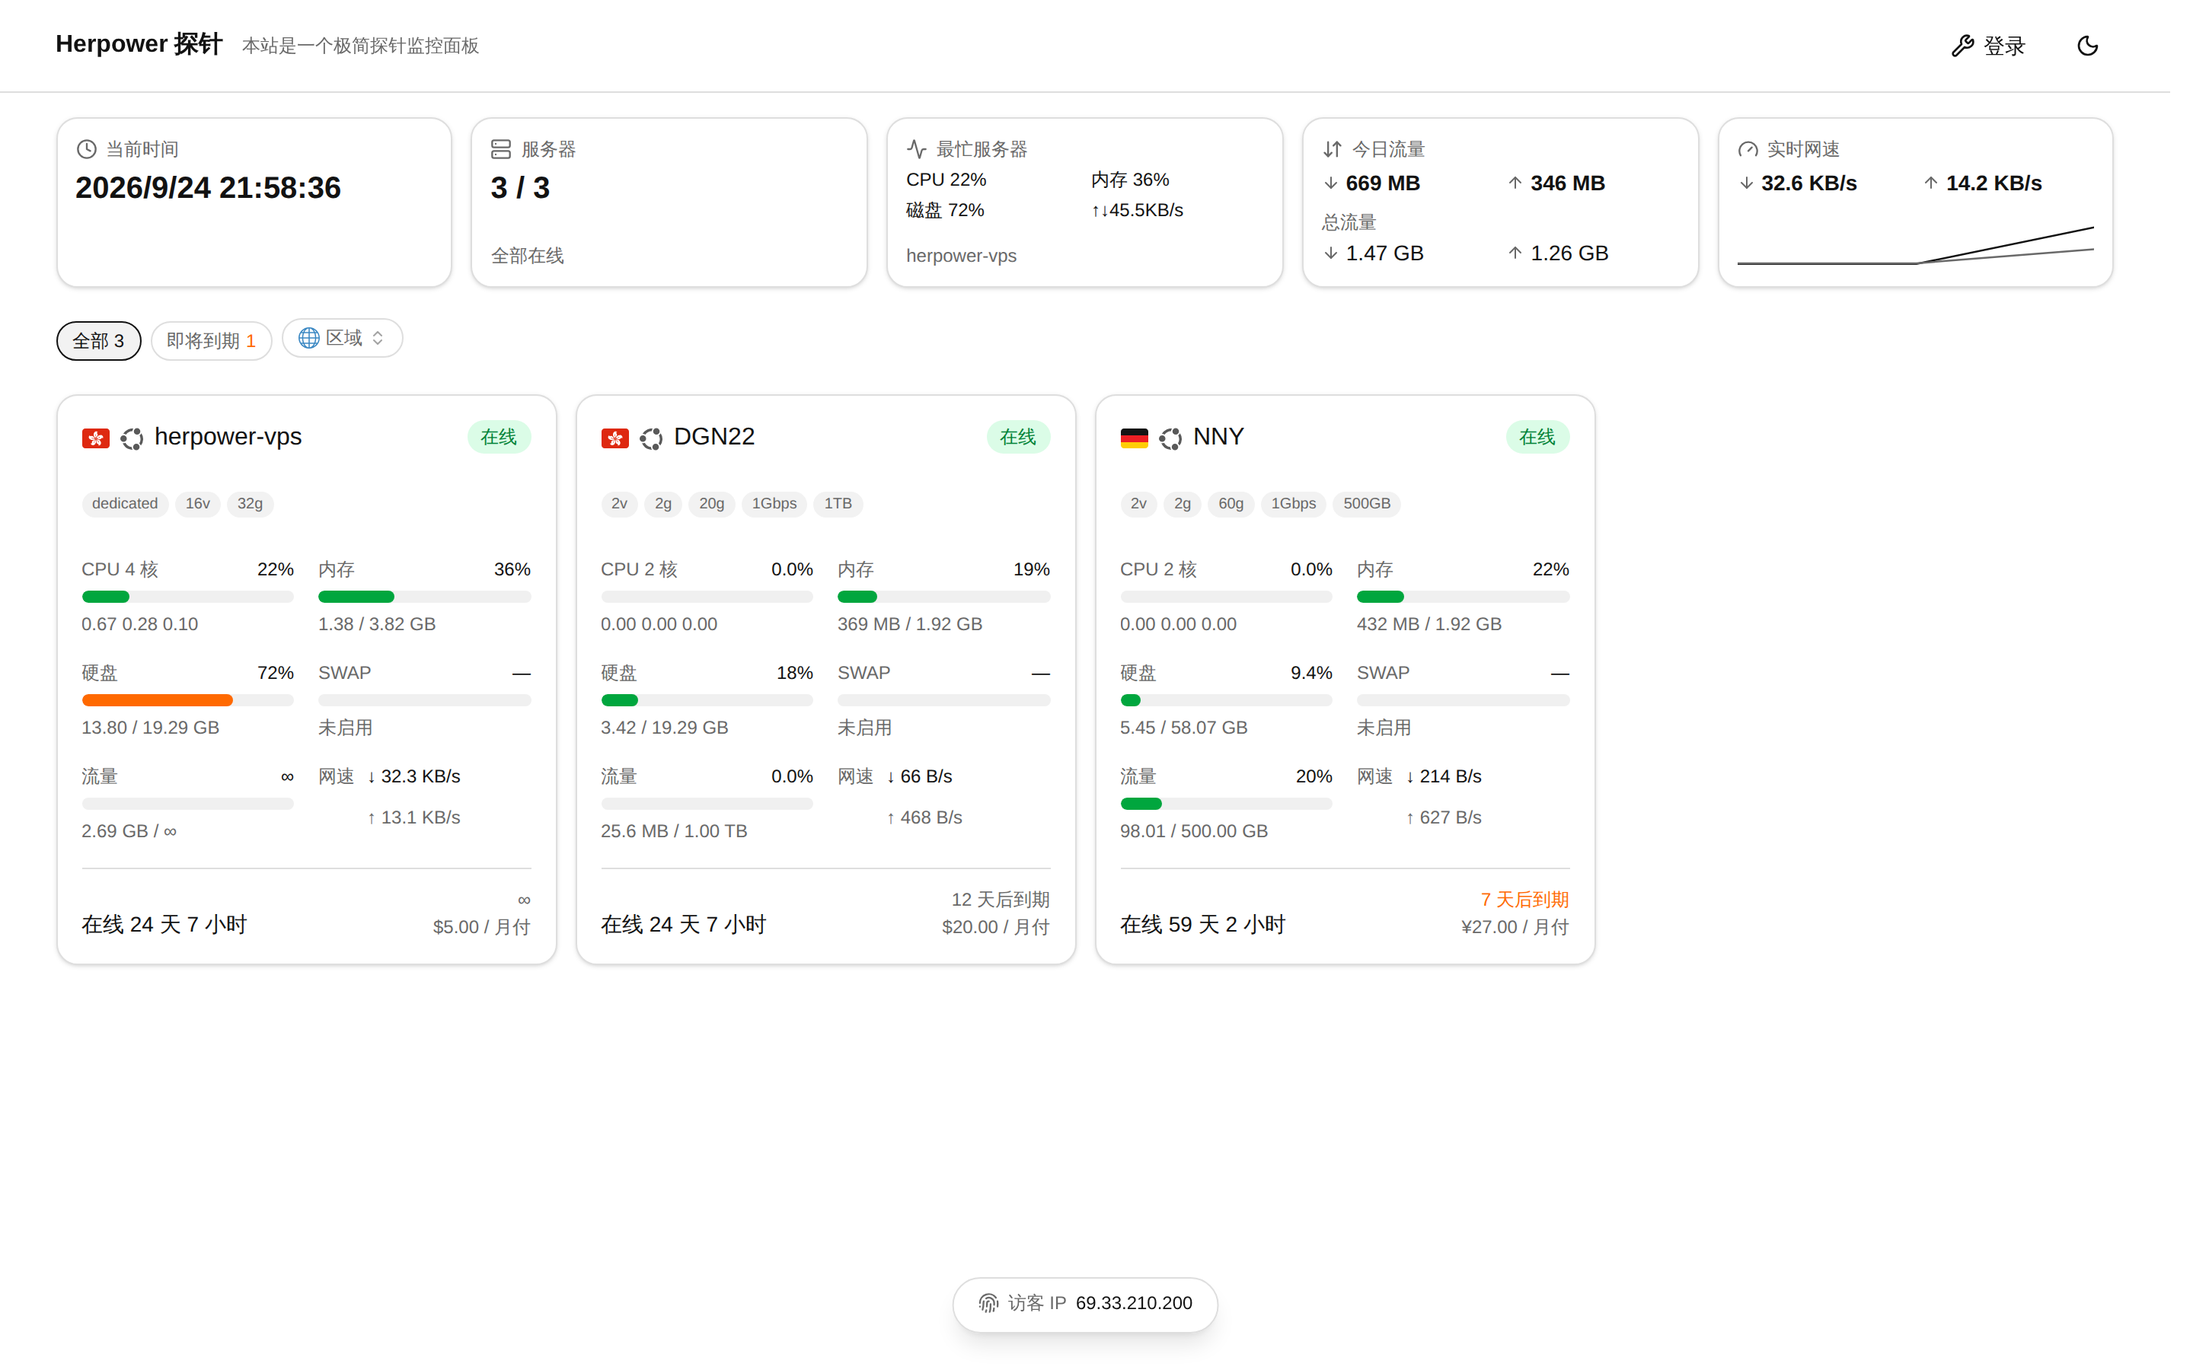
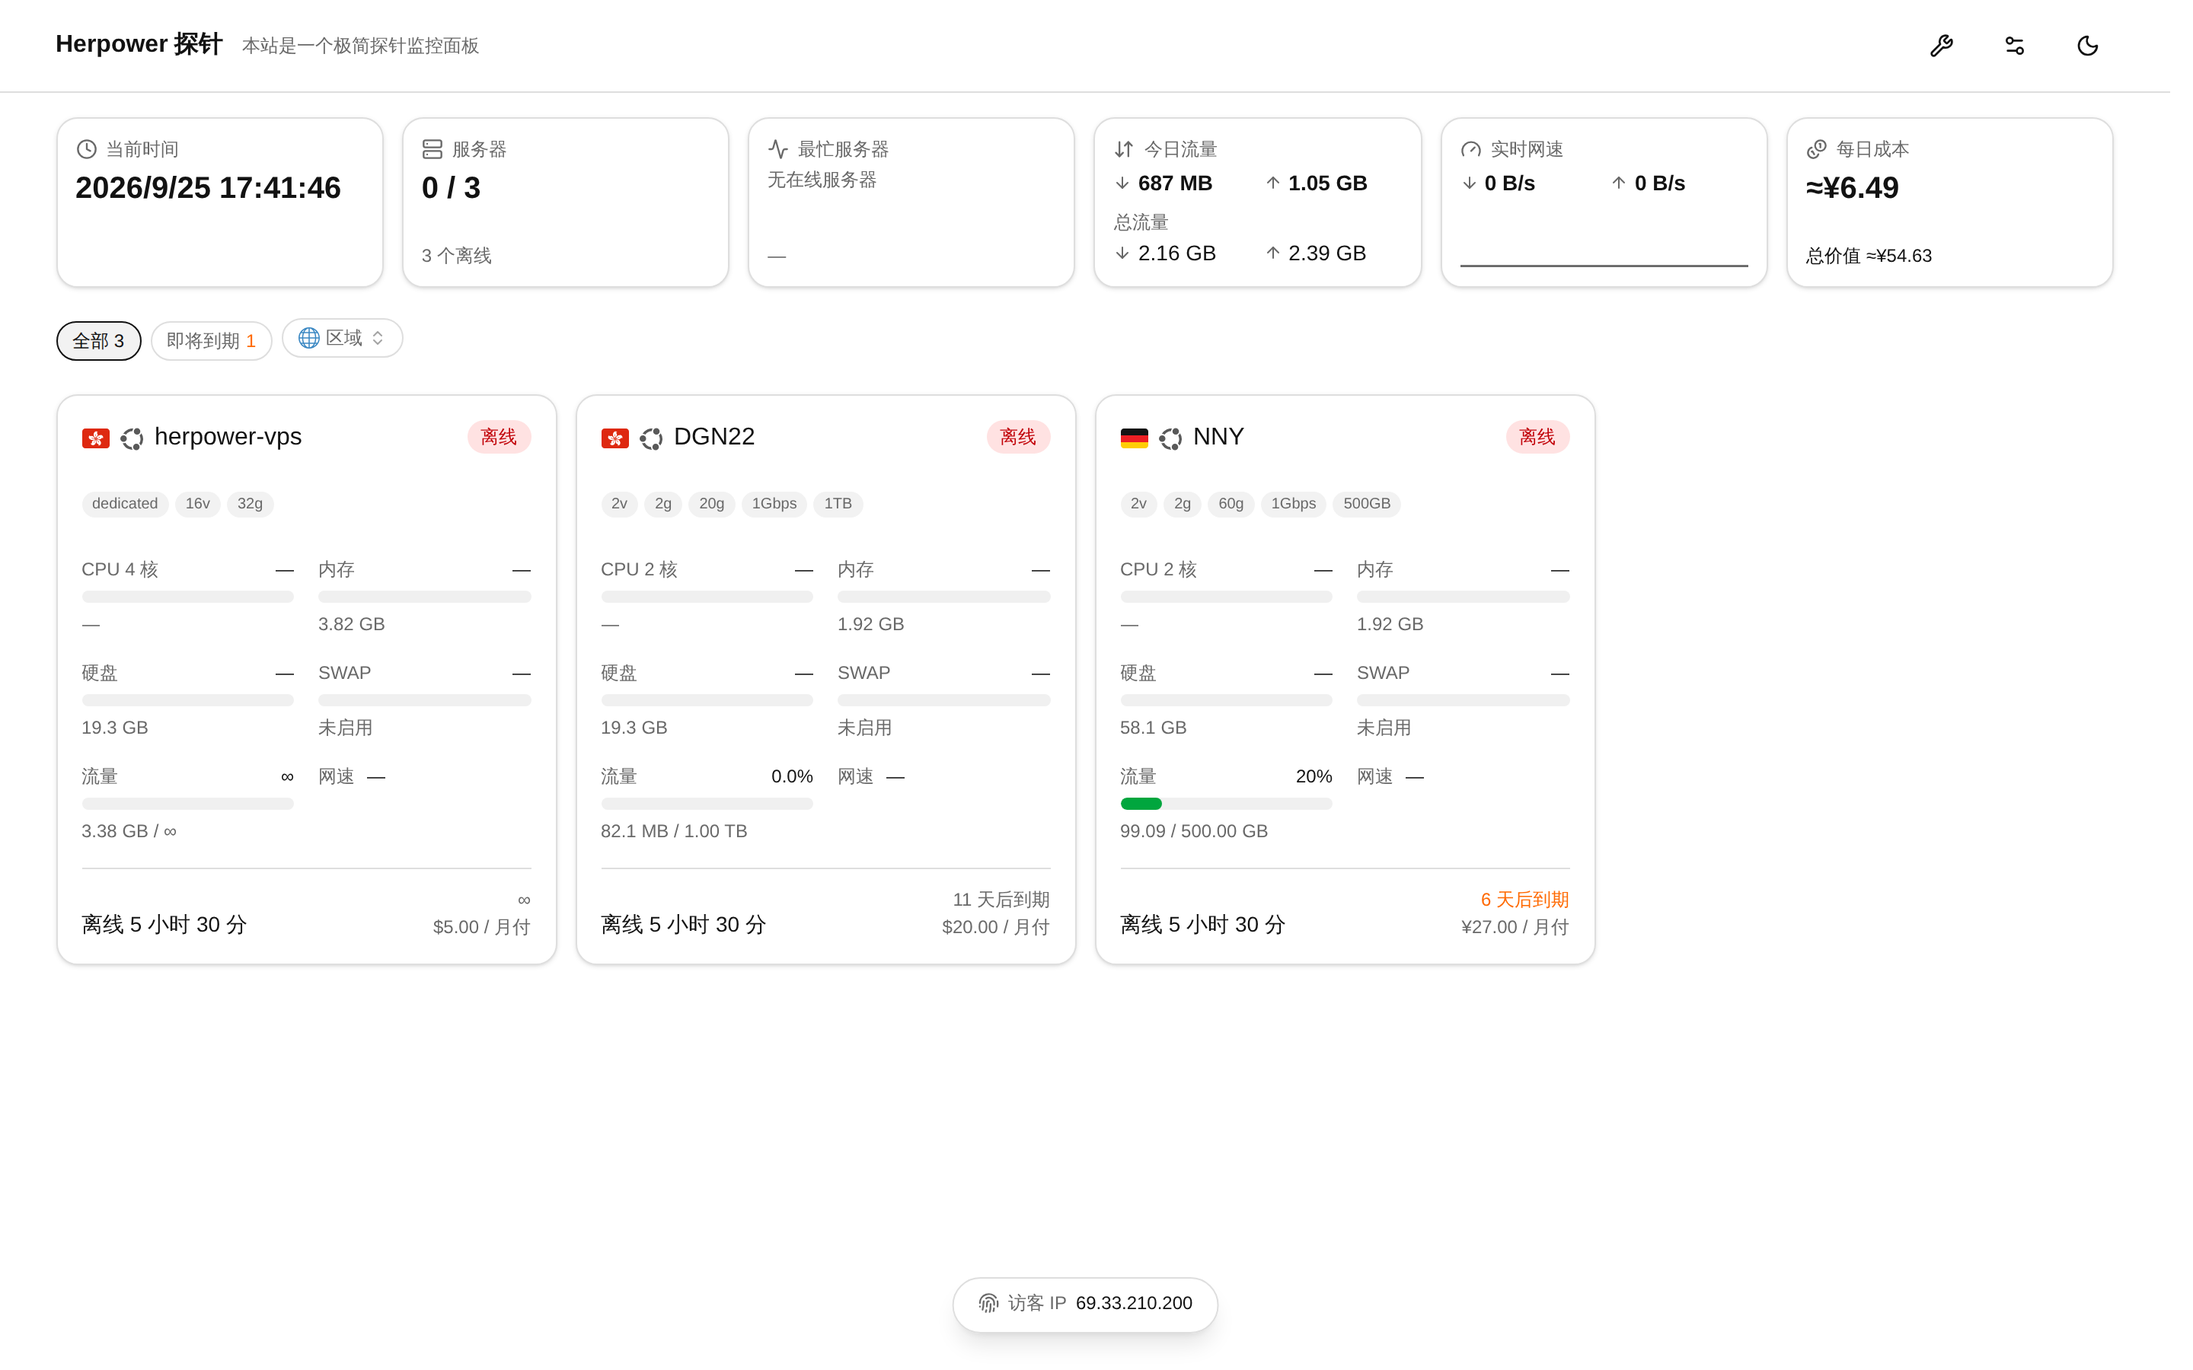
feat: komari-likely v1.2.1 — 背景图磨砂玻璃化，卡片浓度滑钮（默认 70，暗色 -10）

diff --git a/themes/komari-likely/src/components/NodeDetail.tsx b/themes/komari-likely/src/components/NodeDetail.tsx
@@ -102,7 +102,7 @@ function Tab({ active, onClick, children }: { active: boolean; onClick: () => vo
   return (
     <button
       onClick={onClick}
-      className={`rounded-md px-2.5 py-1 text-xs transition-colors ${
+      className={`frost-chip rounded-md px-2.5 py-1 text-xs transition-colors ${
         active ? "bg-primary text-primary-foreground" : "text-muted-foreground hover:bg-muted"
       }`}
     >
@@ -333,63 +333,70 @@ export function NodeDetail({ node }: { node: Node }) {
 
   return (
     <div className="space-y-4">
-      <div className="flex items-center gap-2">
-        <Flag country={node.country} />
-        <h2 className="truncate text-lg font-medium">{node.name}</h2>
-        <Status node={node} />
-        <Uptime node={node} />
-      </div>
+      {/* The machine's whole spec sheet in one card. It started flat, which a
+          bare page carries fine -- but a background picture put these thirteen
+          facts straight onto the image, and a surface is the only honest fix.
+          It also reads the machine at a glance: who it is, what it runs, what
+          it costs, before the charts below say how it is doing. */}
+      <Card className="gap-4 p-4">
+        <div className="flex items-center gap-2">
+          <Flag country={node.country} />
+          <h2 className="truncate text-lg font-medium">{node.name}</h2>
+          <Status node={node} />
+          <Uptime node={node} />
+        </div>
 
-      {/* The operator's semicolon badges, one row under the name -- the same
-          blocks the card carries. Public by design, unlike the note below,
-          which only a signed-in panel ever receives. */}
-      <Tags node={node} className="" />
+        {/* The operator's semicolon badges, one row under the name -- the same
+            blocks the card carries. Public by design, unlike the note below,
+            which only a signed-in panel ever receives. */}
+        <Tags node={node} className="" />
 
-      {/* One flat row of facts: what is left after the traffic figures moved
-          out is one machine's spec sheet, and a box around a single topic is
-          just a box. Three across at lg, two at md, one on a phone -- a kernel
-          version or a CPU model needs about 270px to stay whole. */}
-      <dl className="grid gap-x-6 gap-y-3 md:grid-cols-2 lg:grid-cols-3">
-        <Fact label="系统" value={[osName(node.os), node.kernel].filter(Boolean).join(" · ")} />
-        <Fact
-          label="架构"
-          value={[node.arch, node.virt !== "none" ? node.virt : "", m ? `${m.procs} 进程` : ""]
-            .filter(Boolean)
-            .join(" · ")}
-        />
-        <Fact
-          label="CPU"
-          value={node.cpu_name ? `${cpuName(node.cpu_name)} × ${node.cpu_cores}` : `${node.cpu_cores} 核`}
-        />
-        {/* The agent reports nothing here yet; the slot stays so every
-            machine's sheet reads the same, ready for the day it does. */}
-        <Fact label="GPU" value="未上报" />
-        <Fact label="RAM" value={bytes(node.mem_total)} />
-        {/* A machine without swap is stating a fact about itself, worth the row. */}
-        <Fact
-          label="SWAP"
-          value={node.swap_total > 0
-            ? m
-              ? pair(m.swap_used, node.swap_total)
-              : bytes(node.swap_total)
-            : "未启用"}
-        />
-        <Fact label="硬盘" value={bytes(node.disk_total)} />
-        <Fact label="今日流量" value={`↓ ${bytes(node.day_rx)} · ↑ ${bytes(node.day_tx)}`} />
-        <Fact label="总流量" value={`↓ ${bytes(node.total_rx)} · ↑ ${bytes(node.total_tx)}`} />
-        <Fact
-          label="价格"
-          value={node.price > 0
-            ? `${money(node.price, node.currency)} / ${CYCLES[node.billing_cycle] ?? node.billing_cycle}`
-            : "免费"}
-        />
-        <Fact label="剩余价值" value={remainingValue(node, fx.rate)} title={fxNote} />
-        <Fact label="到期时间" value={node.expires_at ?? FOREVER} />
-      </dl>
+        {/* One flat row of facts: what is left after the traffic figures moved
+            out is one machine's spec sheet. Three across at lg, two at md, one
+            on a phone -- a kernel version or a CPU model needs about 270px to
+            stay whole. */}
+        <dl className="grid gap-x-6 gap-y-3 md:grid-cols-2 lg:grid-cols-3">
+          <Fact label="系统" value={[osName(node.os), node.kernel].filter(Boolean).join(" · ")} />
+          <Fact
+            label="架构"
+            value={[node.arch, node.virt !== "none" ? node.virt : "", m ? `${m.procs} 进程` : ""]
+              .filter(Boolean)
+              .join(" · ")}
+          />
+          <Fact
+            label="CPU"
+            value={node.cpu_name ? `${cpuName(node.cpu_name)} × ${node.cpu_cores}` : `${node.cpu_cores} 核`}
+          />
+          {/* The agent reports nothing here yet; the slot stays so every
+              machine's sheet reads the same, ready for the day it does. */}
+          <Fact label="GPU" value="未上报" />
+          <Fact label="RAM" value={bytes(node.mem_total)} />
+          {/* A machine without swap is stating a fact about itself, worth the row. */}
+          <Fact
+            label="SWAP"
+            value={node.swap_total > 0
+              ? m
+                ? pair(m.swap_used, node.swap_total)
+                : bytes(node.swap_total)
+              : "未启用"}
+          />
+          <Fact label="硬盘" value={bytes(node.disk_total)} />
+          <Fact label="今日流量" value={`↓ ${bytes(node.day_rx)} · ↑ ${bytes(node.day_tx)}`} />
+          <Fact label="总流量" value={`↓ ${bytes(node.total_rx)} · ↑ ${bytes(node.total_tx)}`} />
+          <Fact
+            label="价格"
+            value={node.price > 0
+              ? `${money(node.price, node.currency)} / ${CYCLES[node.billing_cycle] ?? node.billing_cycle}`
+              : "免费"}
+          />
+          <Fact label="剩余价值" value={remainingValue(node, fx.rate)} title={fxNote} />
+          <Fact label="到期时间" value={node.expires_at ?? FOREVER} />
+        </dl>
 
-      {node.remark && (
-        <p className="rounded-md bg-muted px-3 py-2 text-sm whitespace-pre-wrap">{node.remark}</p>
-      )}
+        {node.remark && (
+          <p className="rounded-md bg-muted px-3 py-2 text-sm whitespace-pre-wrap">{node.remark}</p>
+        )}
+      </Card>
 
       <div className="space-y-2 border-t pt-4">
         <div className="flex gap-1">

diff --git a/themes/komari-likely/src/components/ThemeSettings.tsx b/themes/komari-likely/src/components/ThemeSettings.tsx
@@ -141,7 +141,7 @@ export function ThemeSettingsButton({ settings, onSave }: {
         <>
           {/* Click anywhere else closes; the panel sits above this blanket. */}
           <div className="fixed inset-0 z-20" onClick={() => setOpen(false)} aria-hidden />
-          <div className="absolute right-0 top-full z-30 mt-2 max-h-[80svh] w-80 space-y-3 overflow-auto rounded-lg border bg-popover p-3 text-popover-foreground shadow-lg">
+          <div className="absolute right-0 top-full z-30 mt-2 max-h-[80svh] w-80 space-y-3 overflow-auto rounded-lg border bg-popover p-3 text-popover-foreground shadow-lg backdrop-blur-[64px]">
             <div>
               <p className="text-xs font-medium">主题设置</p>
               <p className="mt-1 text-[10px] leading-relaxed text-muted-foreground">
@@ -200,6 +200,17 @@ export function ThemeSettingsButton({ settings, onSave }: {
                       ))}
                     </div>
                   </div>
+                  {/* The frost half of the picture treatment: how solid the
+                      cards are over the blurred image. The image's own
+                      opacity above is a different knob and the two compose. */}
+                  <Slider
+                    label="卡片浓度"
+                    value={Math.round(bg.cardOpacity)}
+                    min={40}
+                    max={100}
+                    render={(v) => `${v}%`}
+                    onPick={(v) => save({ card_opacity: String(v) })}
+                  />
                 </div>
               </div>
             </Section>
@@ -244,6 +255,7 @@ export function ThemeSettingsButton({ settings, onSave }: {
               onClick={() =>
                 save({
                   bg_enabled: "off", bg_desktop: "", bg_mobile: "", bg_opacity: "100", bg_blur: "0", bg_fit: "cover",
+                  card_opacity: "70",
                   cost_public: "off", show_busiest: "on", show_swap: "on", show_speed: "on", show_billing: "on",
                   ip_capsule: "on", expiring_group: "on", region_group: "on",
                 })

diff --git a/themes/komari-likely/src/index.css b/themes/komari-likely/src/index.css
@@ -72,6 +72,29 @@
   --warn: oklch(0.79 0 0);
 }
 
+/* A background picture turns a solid panel into something pasted on top of
+   it. The komari treatment is the opposite trade: the picture stays at full
+   strength and the panels frost -- a translucent tint over a heavy backdrop
+   blur, so text reads against a smeared field instead of the picture's own
+   detail. The switch is one class on the root element, present only while a
+   picture is actually painted: without one the variables are the solid
+   originals and the blur beneath an opaque panel shows nothing, so the bare
+   page is pixel-for-pixel what it always was.
+
+   How solid the frost is comes from `--card-opacity`, set by the page from
+   the operator's slider (40-100, default 70). Dark mode runs ten points
+   thinner -- the same number over the dark tint reads heavier than it does
+   over white -- and the popovers ten points denser, their smaller type
+   needing the sturdier ground. */
+.bg-on {
+  --card: oklch(1 0 0 / var(--card-opacity, 70%));
+  --popover: oklch(1 0 0 / min(95%, calc(var(--card-opacity, 70%) + 10%)));
+}
+.dark.bg-on {
+  --card: oklch(0.2 0 0 / max(40%, calc(var(--card-opacity, 70%) - 10%)));
+  --popover: oklch(0.2 0 0 / var(--card-opacity, 70%));
+}
+
 @theme inline {
   --radius-sm: calc(var(--radius) - 4px);
   --radius-md: calc(var(--radius) - 2px);
@@ -114,3 +137,15 @@
 
 /* Tabular figures keep live numbers from shifting as they update. */
 .tnum { font-variant-numeric: tabular-nums; }
+
+/* The chips that rest directly on the page -- an unselected group pill, an
+   unselected range tab -- carry no fill of their own, which the picture
+   behind them makes loud. The blur rides along unconditionally: over the
+   bare page it has nothing to smear and so shows nothing. A selected chip
+   keeps its solid fill, hence the exclusions. */
+.frost-chip {
+  backdrop-filter: blur(24px);
+}
+.bg-on .frost-chip:not(.bg-secondary):not(.bg-primary) {
+  background-color: color-mix(in oklab, var(--card) 60%, transparent);
+}

diff --git a/themes/komari-likely/src/App.tsx b/themes/komari-likely/src/App.tsx
@@ -173,7 +173,7 @@ export default function App() {
   const shown = group ? sorted.filter(inGroup) : sorted
   const count = (name: string) => sorted.filter((n) => (name === EXPIRING ? expiring.some((e) => e.id === n.id) : groups.includes(name) ? n.group === name : n.country === name)).length
   const pill = (active: boolean) =>
-    `inline-flex items-center gap-1 rounded-full border px-2.5 py-1 text-xs transition-colors ${active ? "border-primary bg-secondary font-medium" : "text-muted-foreground hover:bg-muted"}`
+    `frost-chip inline-flex items-center gap-1 rounded-full border px-2.5 py-1 text-xs transition-colors ${active ? "border-primary bg-secondary font-medium" : "text-muted-foreground hover:bg-muted"}`
 
   // `/node/{id}` is a page people bookmark and share, so the tab needs the node's
   // name. The site name rather than a fixed string, since the hub lets an operator
@@ -181,6 +181,18 @@ export default function App() {
   useEffect(() => {
     document.title = [selected?.name, me?.site_name || "Monitor"].filter(Boolean).join(" · ")
   }, [selected?.name, me?.site_name])
+
+  // One class on the root frosts every surface while a background picture is
+  // painted, and changes nothing while one is not; the picture itself is
+  // BackgroundLayer's business. The accompanying variable is how solid the
+  // frost is, as the operator set it -- a number the CSS in index.css turns
+  // into the card and popover alphas. This must run even on the error and
+  // loading shapes below.
+  useEffect(() => {
+    const t = me?.theme
+    document.documentElement.classList.toggle("bg-on", !!t && t.bg_enabled === "on" && !!(t.bg_desktop || t.bg_mobile))
+    document.documentElement.style.setProperty("--card-opacity", `${parseThemeSettings(t).bg.cardOpacity}%`)
+  }, [me?.theme])
 
   // The description the operator wrote is both page copy and the meta a crawler
   // reads; the page keeps its own copy current with whatever /me reported.

diff --git a/themes/komari-likely/src/lib/display.ts b/themes/komari-likely/src/lib/display.ts
@@ -9,6 +9,10 @@ export type Bg = {
   opacity: number
   blur: number
   fit: "cover" | "contain"
+  /** How solid the frosted panels are while the picture is on: 100 is an
+   *  opaque card, and the floor of 40 is where text starts competing with the
+   *  picture for the eye. */
+  cardOpacity: number
 }
 
 export type Display = {
@@ -36,6 +40,7 @@ export function parseThemeSettings(raw?: Record<string, string>): ThemeSettings 
       opacity: Math.min(1, Math.max(0, Number(raw?.bg_opacity ?? 100) / 100 || 1)),
       blur: Math.min(20, Math.max(0, Number(raw?.bg_blur ?? 0) || 0)),
       fit: raw?.bg_fit === "contain" ? "contain" : "cover",
+      cardOpacity: Math.min(100, Math.max(40, Number(raw?.card_opacity ?? 70) || 70)),
     },
     display: {
       costPublic: flag(raw, "cost_public", false),

diff --git a/themes/komari-likely/src/components/RegionPicker.tsx b/themes/komari-likely/src/components/RegionPicker.tsx
@@ -28,7 +28,7 @@ export function RegionPicker({ regions, selected, onSelect, countOf, trigger }: 
         <>
           {/* Click anywhere else closes; the panel sits above this blanket. */}
           <div className="fixed inset-0 z-20" onClick={() => setOpen(false)} aria-hidden />
-          <div className="absolute top-full left-0 z-30 mt-1 max-h-64 w-44 overflow-auto rounded-lg border bg-popover p-1 text-popover-foreground shadow-lg">
+          <div className="absolute top-full left-0 z-30 mt-1 max-h-64 w-44 overflow-auto rounded-lg border bg-popover p-1 text-popover-foreground shadow-lg backdrop-blur-xl">
             {regions.map((r) => (
               <button
                 key={r}

diff --git a/themes/komari-likely/src/components/ui/card.tsx b/themes/komari-likely/src/components/ui/card.tsx
@@ -11,7 +11,11 @@ function Card({ className, ...props }: React.ComponentProps<"div">) {
     <div
       data-slot="card"
       className={cn(
-        "flex flex-col gap-6 rounded-xl border bg-card py-6 text-card-foreground shadow-sm",
+        // The blur is the frosted half of the background-picture treatment:
+        // under a solid card it smears a uniform colour and so changes
+        // nothing, and only the translucent `--card` a picture switches in
+        // (index.css) gives it anything to work on.
+        "flex flex-col gap-6 rounded-xl border bg-card py-6 text-card-foreground shadow-sm backdrop-blur-[64px]",
         className
       )}
       {...props}

diff --git a/themes/komari-likely/src/components/IpCapsule.tsx b/themes/komari-likely/src/components/IpCapsule.tsx
@@ -69,7 +69,7 @@ export function IpCapsule() {
     <div
       role="status"
       className={cn(
-        "fixed bottom-6 left-1/2 z-50 -translate-x-1/2 rounded-full border bg-background/80 px-4 py-2 text-xs shadow-lg backdrop-blur transition-all duration-700",
+        "fixed bottom-6 left-1/2 z-50 -translate-x-1/2 rounded-full border bg-background/80 px-4 py-2 text-xs shadow-lg backdrop-blur-xl transition-all duration-700",
         shown ? "translate-y-0 opacity-100" : "pointer-events-none translate-y-3 opacity-0",
       )}
     >
